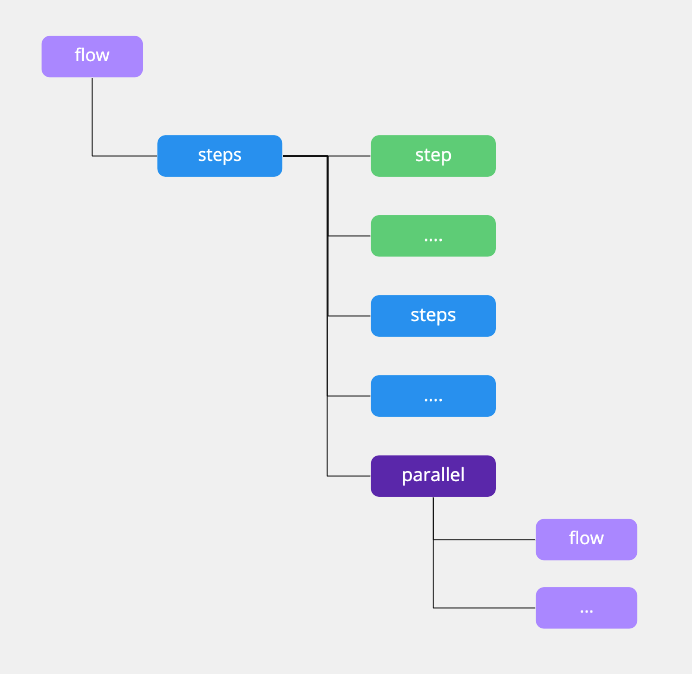
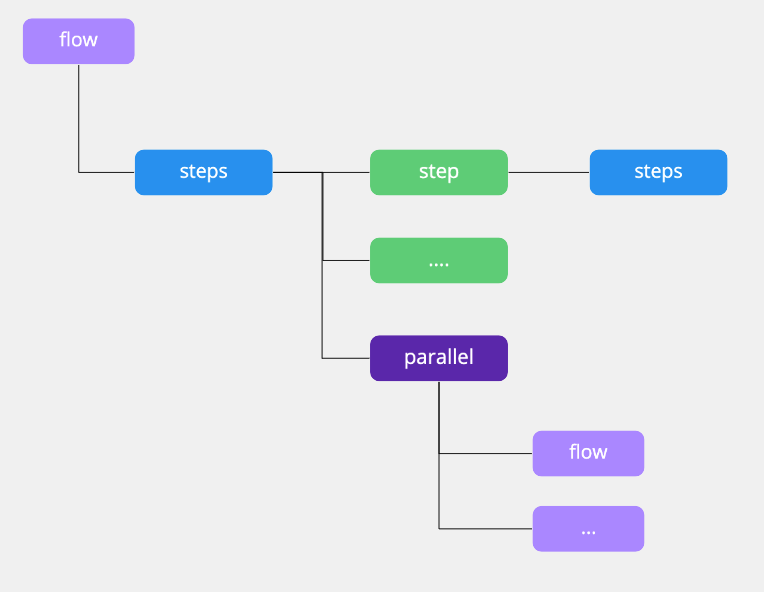
fix cn flow structure

Changed region(s): [[0.0303, 0.0304, 0.9408, 0.9426], [0.7587, 0.2432, 0.9711, 0.3345]]

diff --git a/cn/flow/structure.md b/cn/flow/structure.md
@@ -7,58 +7,69 @@
 - 执行步骤 (step)
 - 并行步骤 (parallel)
 
-它们之间的关系由下图所示:
+![structure](../../images/flow/structure.png)
 
-![flow structure](../../images/flow/structure.png)
 
-对应的 YAML 配置为:
+### 举个例子
+
+![sample](../../images/flow/sample.png)
+
+
+使用 YAML 配置来表示以上结构:
 
 ```yaml
+
 steps:
-  - name: step 1
+  - name: git clone
     bash: |
-      echo "step 1"
+      echo "run git clone"
 
-  - name: step 2
-    bash: |
-      echo "step 2"
-
-  - steps:
-    - name: step 1_1
-      bash: |
-        echo "step 1.1"
-
-    - name: step 1_2
-      bash: |
-        echo "step 1.2"
+  - name: steps for build
+    docker:
+      image: "my build image"
+    steps:
+      - name: build_a
+        bash: |
+          echo "run build step a"
+      - name: build_b
+        bash: |
+          echo "run build step b"
   
-  - steps:
-    - name: step 2_1
-      bash: |
-        echo "step 2.1"
+  - parallel:
+      java_8_test:
+        docker:
+          image: "java 8 image"
+        steps:
+          - name: test a
+            bash: |
+              echo "run test a for java 8"
+          - name: test b
+            bash: |
+              echo "run test b for java 8"
 
-    - name: step 2_2
-      bash: |
-        echo "step 2.2"
+      java_11_test:
+        docker:
+          image: "java 11 image"
+        steps:
+          - name: test a
+            bash: |
+              echo "run test a for java 11"
+          - name: test b
+            bash: |
+              echo "run test b for java 11"
+
 
   - parallel:
-      p_flow_A:
+      deploy_to_a:
         steps:
-          - name: step A_1
+          - name: deploy
             bash: |
-              echo "step A.1 from parallel flow A"
+              echo "deploy to environment a"
 
-          - name: step A_2
-            bash: |
-              echo "step A.2 from parallel flow A"
-        
-      p_flow_B:
+      deploy_to_b:
         steps:
-          - name: step B_1
+          - name: deploy
             bash: |
-                echo "step B.1 from parallel flow B"
+              echo "deploy to environment b"
 
-          - name: step B_2
-            bash: |
-                echo "step B.2 from parallel flow B"
 ```

diff --git a/cn/_sidebar.md b/cn/_sidebar.md
@@ -15,6 +15,7 @@
   * [运行环境](cn/job/environment.md)
   * [并行执行](cn/job/parallel.md)
   * [定时任务](cn/job/schedule.md)
+  * [缓存](cn/job/cache.md)
   * [Web Terminal](cn/job/web_terminal.md)
 
 * Git 仓库
